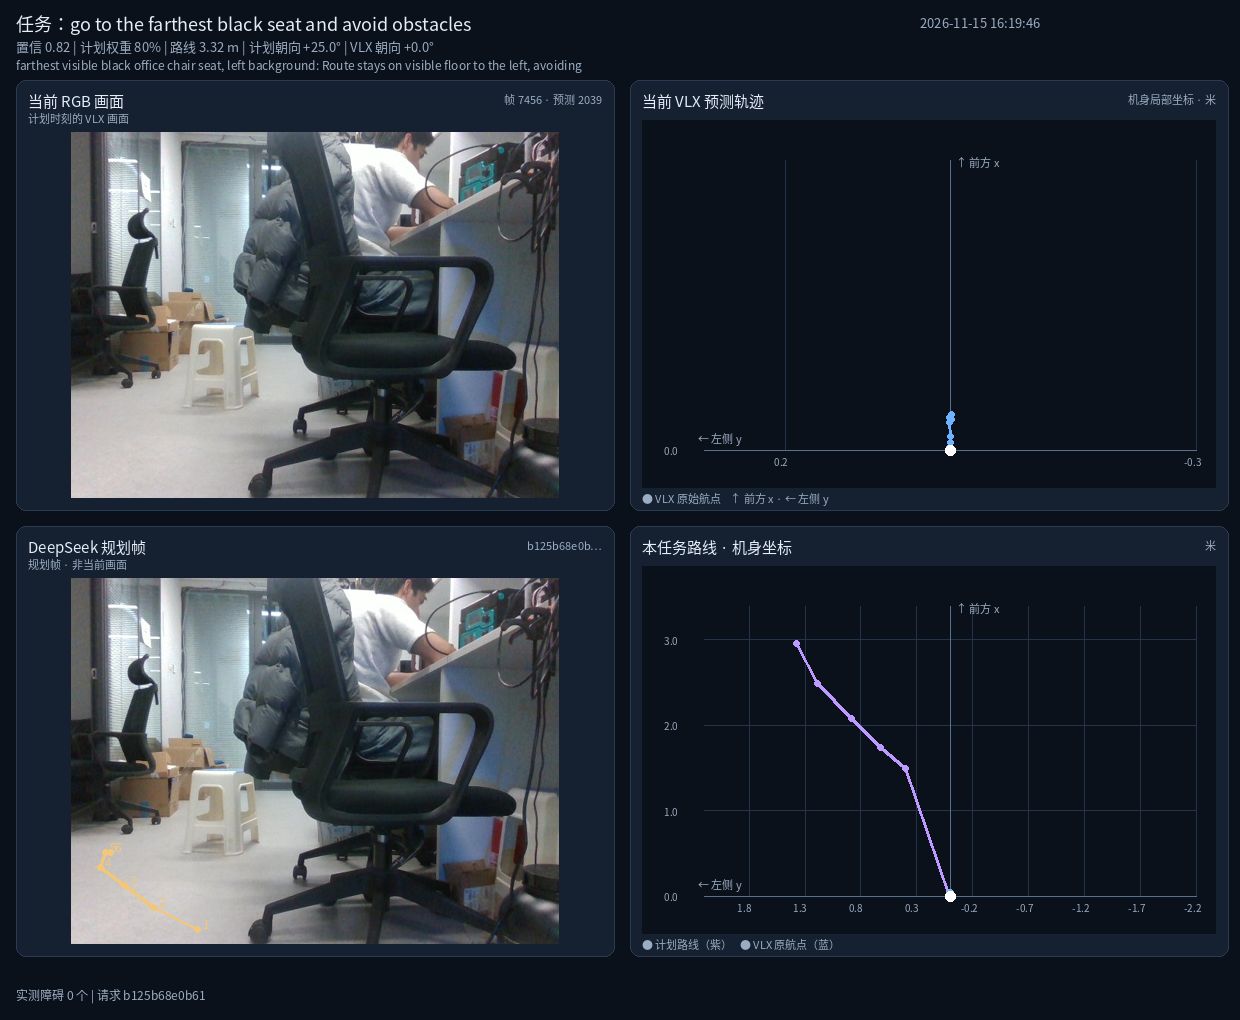
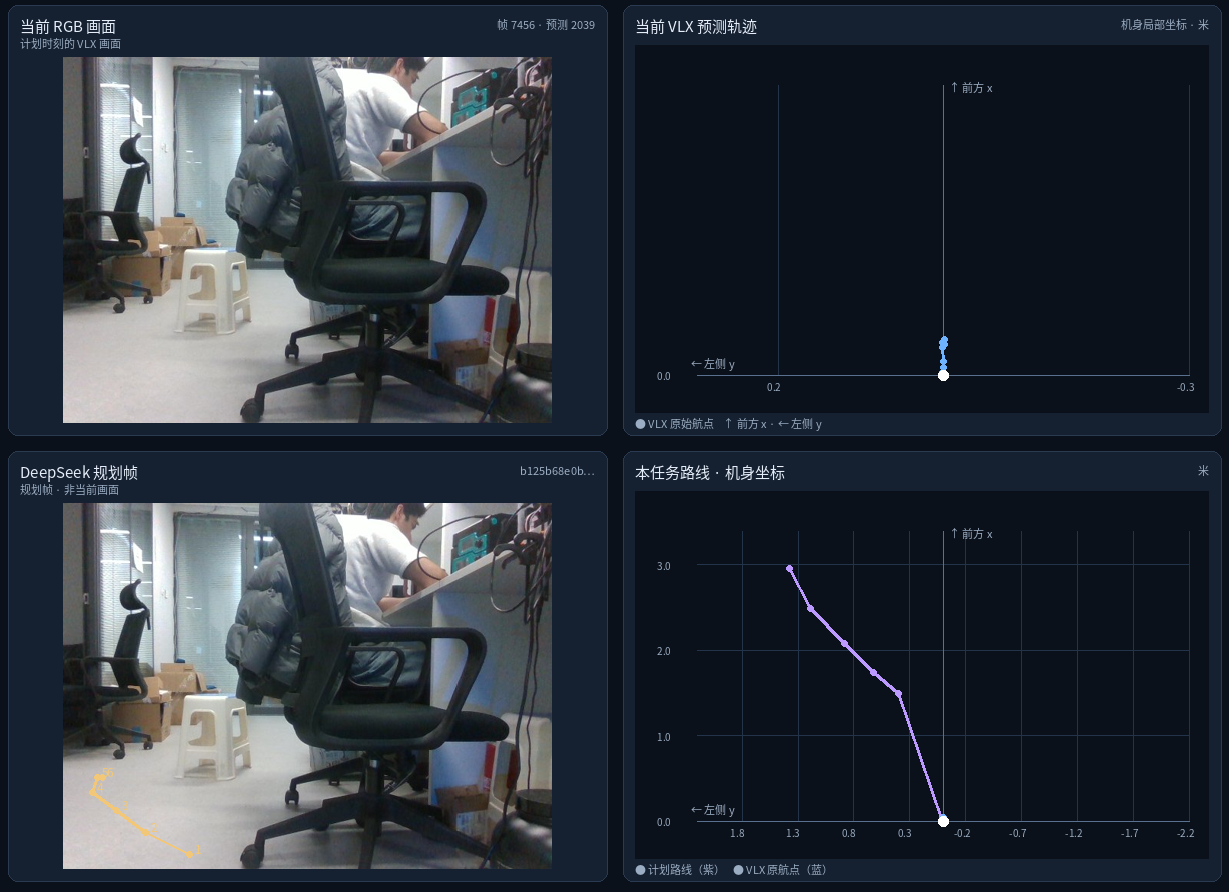
Replace the results screenshot with the panel-only crop

diff --git a/assets/README.md b/assets/README.md
@@ -13,7 +13,7 @@
 | `demo.mp4` | 1280 × 720, 10 s, 2.0 MB | Results: demo clip, H.264/AAC (the click target) |
 | `demo.gif` | 480 × 270, 10 s, 3.2 MB | Results: inline looping preview, links to `demo.mp4` |
 | `demo-poster.jpg` | 1280 × 720 | Poster frame, not referenced at the moment |
-| `demo-vlx-vs-plan.png` | 1240 × 1020 | Results: one step of the demo, VLX vs the DeepSeek plan |
+| `demo-vlx-vs-plan.png` | 1229 × 892 | Results: one step of the demo, VLX vs the DeepSeek plan |
 | `observation-dashboard.png` | 1440 × 1200 | Kept for a future screenshot section |
 | `dashboard-live.jpg` | 1000 × 2330 | Kept for a future screenshot section |
 | `dashboard-history.jpg` | 1000 × 2337 | Kept for a future screenshot section |
